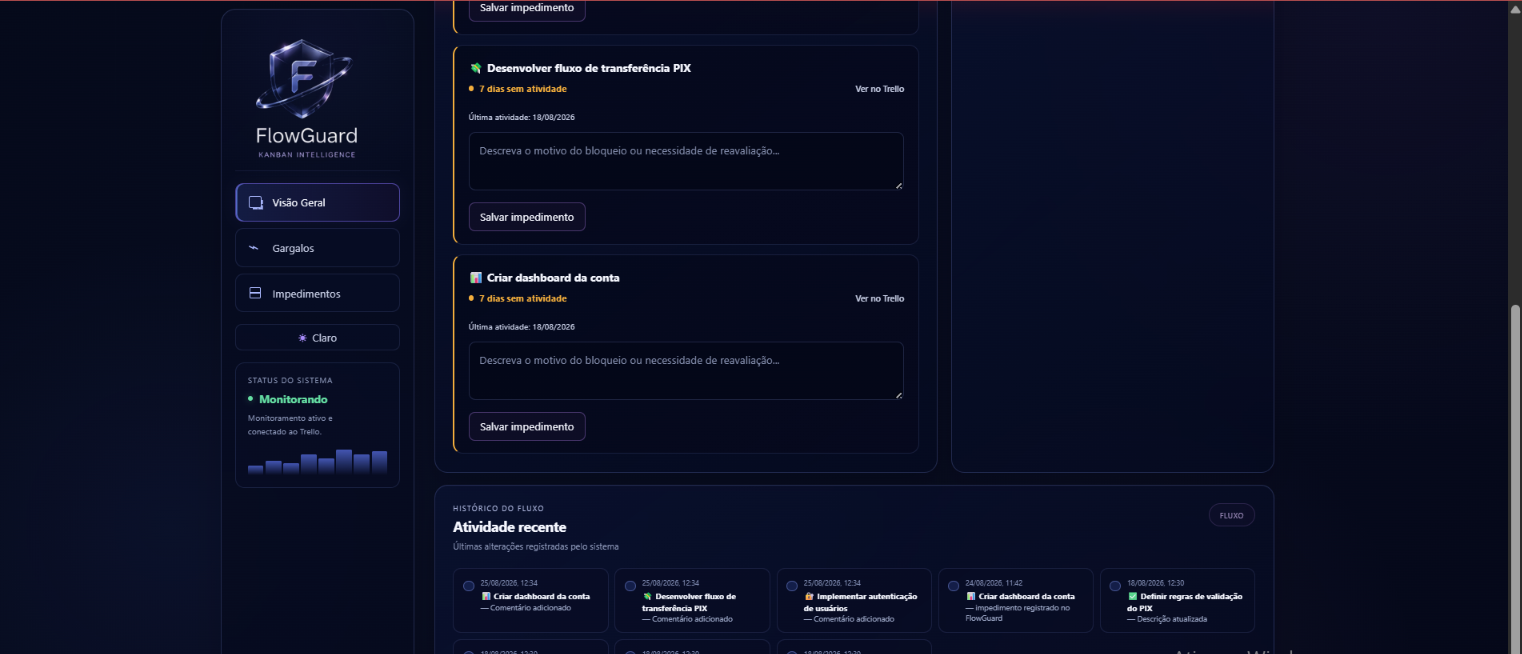
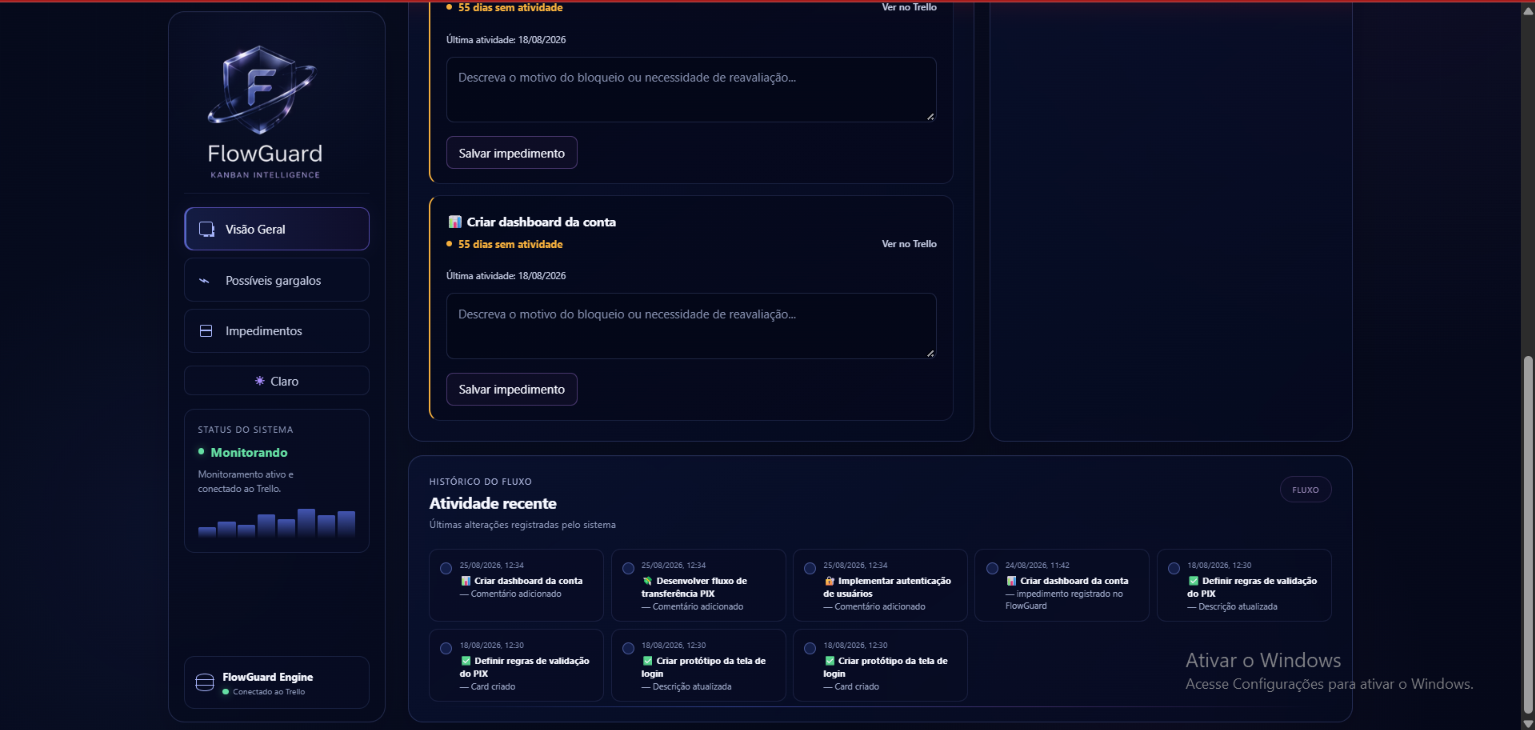
Atualiza apresentação do FlowGuard

diff --git a/README.md b/README.md
@@ -288,11 +288,13 @@ npm start
 
 Por padrão, a aplicação fica disponível em `http://localhost:3000`.
 
+Dashboard publicada: [https://bot-trello-gargalos.onrender.com/dashboard.html](https://bot-trello-gargalos.onrender.com/dashboard.html)
+
 ---
 
 ## Interface
 
-A dashboard responsiva centraliza a visualização do fluxo Kanban, gargalos identificados, impedimentos e atividades recentes.
+A dashboard responsiva centraliza a visualização do fluxo Kanban, possíveis gargalos sinalizados, impedimentos e atividades recentes.
 
 A interface oferece temas claro e escuro, permitindo adaptar a visualização à preferência do usuário.
 
